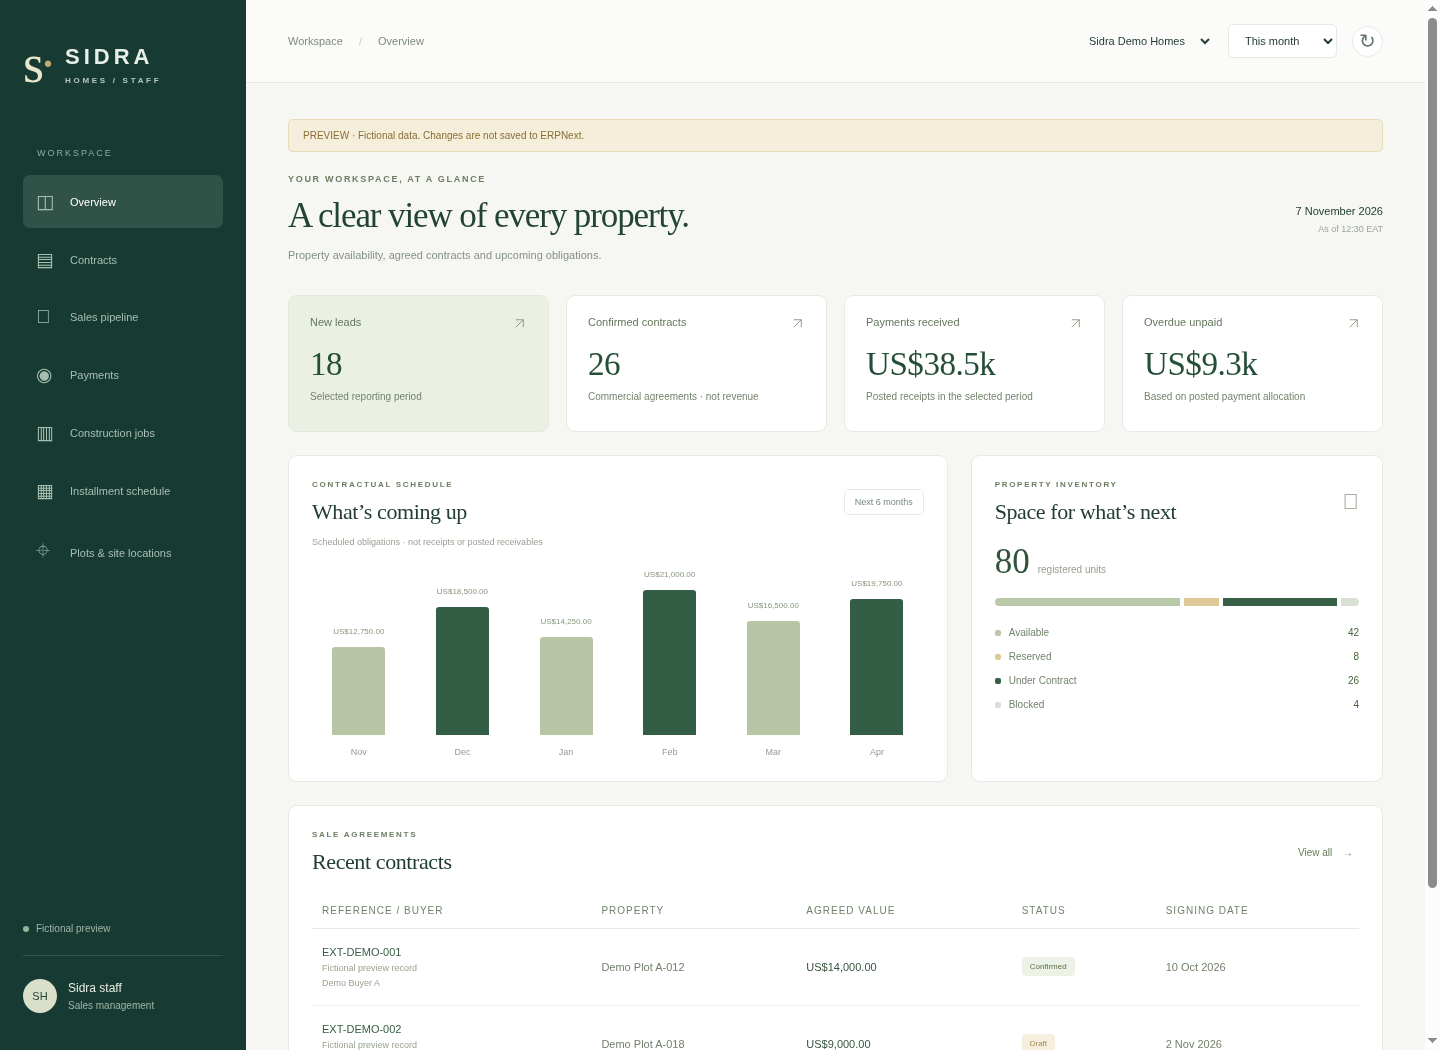
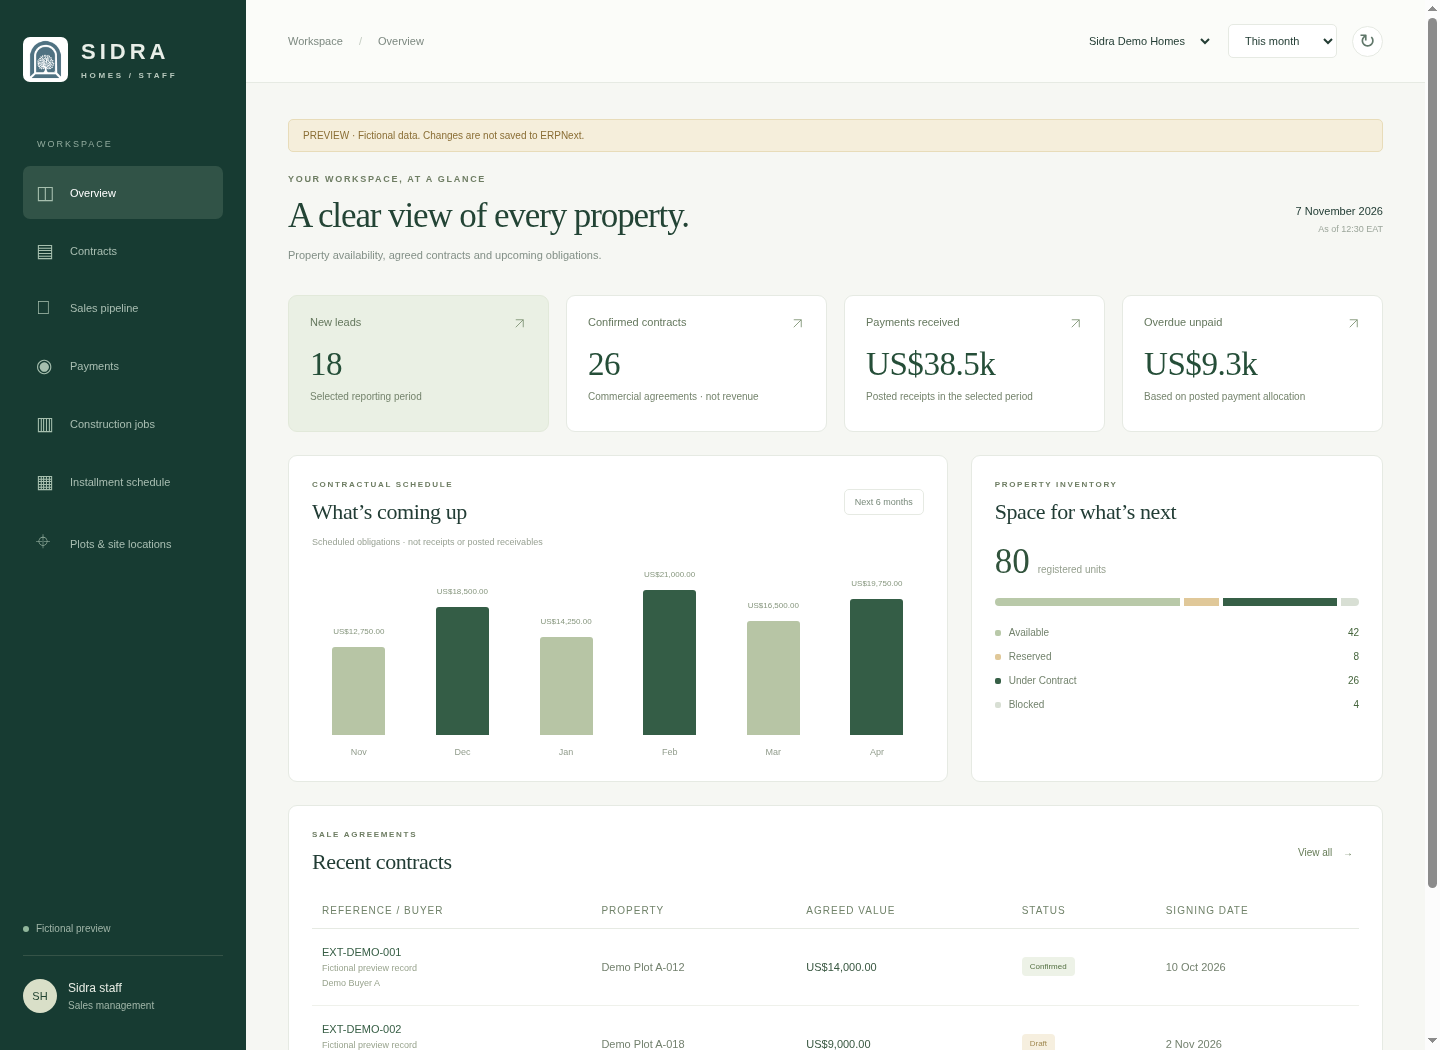
fix(staff): reuse official branding and isolate browser proxy settings

diff --git a/clients/staff/web/index.html b/clients/staff/web/index.html
@@ -1,9 +1,9 @@
 <!doctype html><html lang="en"><head><meta charset="utf-8"><meta name="viewport" content="width=device-width,initial-scale=1,viewport-fit=cover"><meta name="theme-color" content="#173b32"><title>Sidra Homes · Staff</title><link rel="stylesheet" href="./styles.css"></head><body>
-<aside class="sidebar"><a class="brand" href="./"><span class="monogram">s<span>·</span></span><span>SIDRA<span class="brand-sub">HOMES / STAFF</span></span></a><span class="nav-label">WORKSPACE</span><nav aria-label="Main navigation"><button class="nav active" data-view="overview"><span>◫</span> Overview</button><button class="nav" data-view="contracts"><span>▤</span> Contracts</button><button class="nav" data-view="sales"><span>↗</span> Sales pipeline</button><button class="nav" data-view="payments"><span>◉</span> Payments</button><button class="nav" data-view="jobs"><span>▥</span> Construction jobs</button><button class="nav" data-view="schedule"><span>▦</span> Installment schedule</button><button class="nav" data-view="locations"><span>⌖</span> Plots & site locations</button></nav><div class="sidebar-bottom"><span class="live-dot"></span><span id="connection">Connecting to server</span><div class="account"><span class="avatar">SH</span><div>Sidra staff<small id="role">Staff workspace</small></div></div></div></aside>
+<aside class="sidebar"><a class="brand" href="./"><img class="brand-icon" src="./sidra-icon.png" alt=""><span>SIDRA<span class="brand-sub">HOMES / STAFF</span></span></a><span class="nav-label">WORKSPACE</span><nav aria-label="Main navigation"><button class="nav active" data-view="overview"><span>◫</span> Overview</button><button class="nav" data-view="contracts"><span>▤</span> Contracts</button><button class="nav" data-view="sales"><span>↗</span> Sales pipeline</button><button class="nav" data-view="payments"><span>◉</span> Payments</button><button class="nav" data-view="jobs"><span>▥</span> Construction jobs</button><button class="nav" data-view="schedule"><span>▦</span> Installment schedule</button><button class="nav" data-view="locations"><span>⌖</span> Plots & site locations</button></nav><div class="sidebar-bottom"><span class="live-dot"></span><span id="connection">Connecting to server</span><div class="account"><span class="avatar">SH</span><div>Sidra staff<small id="role">Staff workspace</small></div></div></div></aside>
 <div class="workspace"><header class="topbar"><span id="breadcrumb">Workspace <span>/</span> Overview</span><div class="top-actions"><label class="company-label"><span class="sr-only">Company</span><select id="company" aria-label="Company"><option>Loading company…</option></select></label><label><span class="sr-only">Reporting period</span><select id="period" aria-label="Reporting period"><option value="this_month">This month</option><option value="last_30_days">Last 30 days</option><option value="last_90_days">Last 90 days</option></select></label><a id="signin" href="/login?redirect-to=%2Fsidra-staff%2F" class="text-button">Sign in</a><button id="signout" class="text-button" hidden>Sign out</button><button id="refresh" class="icon-button" aria-label="Refresh dashboard">↻</button></div></header><main>
 <div id="demo-banner" class="demo-banner" hidden>PREVIEW · Fictional data. Changes are not saved to ERPNext.</div><div id="alert" role="status" class="alert" hidden></div>
 <div class="page-heading"><div><p class="eyebrow" id="eyebrow">YOUR WORKSPACE, AT A GLANCE</p><h1 id="page-title">A clear view of every property.</h1><p class="subtitle" id="subtitle">Property availability, agreed contracts and upcoming obligations.</p></div><div class="date-block"><span id="today"></span><small id="updated">Awaiting server data</small></div></div>
-<section id="view-overview" class="view"><div class="metrics" id="metrics" aria-live="polite"></div><div class="dashboard-grid"><section class="panel schedule-panel"><div class="panel-heading"><div><p class="eyebrow">CONTRACTUAL SCHEDULE</p><h2>What’s coming up</h2></div><span class="tag">Next 6 months</span></div><p class="panel-note">Scheduled obligations · not receipts or posted receivables</p><div id="chart" class="bar-chart" aria-label="Scheduled obligations by month"></div></section><section class="panel availability-panel"><div class="panel-heading"><div><p class="eyebrow">PROPERTY INVENTORY</p><h2>Space for what’s next</h2></div><span class="small-arrow">↗</span></div><div id="availability"></div></section></div><section class="panel"><div class="panel-heading"><div><p class="eyebrow">SALE AGREEMENTS</p><h2>Recent contracts</h2></div><button class="text-button" data-view="contracts">View all <span>→</span></button></div><div id="recent-contracts" class="table-wrap"></div></section><div class="bottom-note"><span class="live-dot"></span> Data and permissions are controlled by your ERPNext server.<span>SIDRA HOMES</span></div></section>
+<section id="view-overview" class="view"><div class="metrics" id="metrics" aria-live="polite"></div><div class="dashboard-grid"><section class="panel schedule-panel"><div class="panel-heading"><div><p class="eyebrow">CONTRACTUAL SCHEDULE</p><h2>What’s coming up</h2></div><span class="tag">Next 6 months</span></div><p class="panel-note">Scheduled obligations · not receipts or posted receivables</p><div id="chart" class="bar-chart" aria-label="Scheduled obligations by month"></div></section><section class="panel availability-panel"><div class="panel-heading"><div><p class="eyebrow">PROPERTY INVENTORY</p><h2>Space for what’s next</h2></div></div><div id="availability"></div></section></div><section class="panel"><div class="panel-heading"><div><p class="eyebrow">SALE AGREEMENTS</p><h2>Recent contracts</h2></div><button class="text-button" data-view="contracts">View all <span>→</span></button></div><div id="recent-contracts" class="table-wrap"></div></section><div class="bottom-note"><span class="live-dot"></span> Data and permissions are controlled by your ERPNext server.<span>SIDRA HOMES</span></div></section>
 <section id="view-sales" class="view" hidden><div id="sales-metrics" class="metrics"></div><section class="panel"><div class="panel-heading"><h2>Sales pipeline</h2></div><div id="pipeline" class="pipeline"></div><p class="panel-note footer-note">Lead and opportunity counts are linked and calculated by the server.</p></section></section><section id="view-payments" class="view" hidden><div id="payment-metrics" class="metrics"></div><section class="panel"><div class="panel-heading"><h2>Overdue payment aging</h2></div><div id="aging" class="pipeline"></div><p class="panel-note footer-note">Posted payments and allocation determine what is unpaid. The installment schedule alone cannot establish arrears.</p></section></section><section id="view-jobs" class="view" hidden><div id="job-metrics" class="metrics"></div><section class="panel"><div class="panel-heading"><h2>Construction jobs</h2></div><div id="jobs-table" class="table-wrap"></div></section></section><section id="view-contracts" class="view" hidden><div class="panel"><div class="panel-heading"><h2>Contract register</h2><input id="contract-search" type="search" placeholder="Search reference, buyer or unit" aria-label="Search contracts"></div><div id="contracts-table" class="table-wrap"></div><p class="panel-note footer-note">Registration, original attachments and agreed terms open in the server portal.</p></div></section>
 <section id="view-schedule" class="view" hidden><div class="panel"><div class="panel-heading"><div><p class="eyebrow">AGREED DATES & AMOUNTS</p><h2>Upcoming installments</h2></div><span class="tag">Server schedule</span></div><p class="panel-note">These are contractual obligations. Payment allocation and paid balances are handled by Finance on the server.</p><div id="upcoming" class="table-wrap"></div></div></section>
 <section id="view-locations" class="view" hidden><div class="location-layout"><section class="panel location-list"><div class="panel-heading"><div><p class="eyebrow">PLOTS & CONSTRUCTION SITES</p><h2>Every place, connected.</h2></div></div><div class="filter-row"><input id="location-search" type="search" placeholder="Find a plot or site" aria-label="Search locations"><select id="location-kind" aria-label="Location type"><option value="">All locations</option><option>Sidra Unit</option><option>Sidra Construction Job</option></select></div><div id="locations"></div></section><section class="panel location-detail" id="location-detail"><div class="empty">Select a plot or construction site to view its saved location.</div></section></div></section>

diff --git a/clients/staff/web/styles.css b/clients/staff/web/styles.css
@@ -3,3 +3,5 @@
 
 @media(max-width:720px){.topbar{height:auto;min-height:65px;gap:7px;flex-wrap:wrap;padding-top:9px;padding-bottom:9px}.top-actions{flex-wrap:wrap;gap:5px}.top-actions #period{font-size:9px;max-width:110px;padding:6px}.topbar #breadcrumb{font-size:10px}.company-label select{max-width:135px}}
 .metric-label{font-size:11px;color:#65785e}.metric-sub{font-size:10px;color:#75846d}th{font-size:10px;color:#71836a}.eyebrow{color:#6e7d63}.metric-label svg{color:#7e9273;flex-shrink:0}.metric-value{font-size:clamp(24px,2.3vw,34px)}.metric-unavailable{font-size:14px}
+
+.brand-icon{width:45px;height:45px;object-fit:contain;background:white;border-radius:7px;padding:3px}@media(max-width:720px){.brand-icon{width:35px;height:35px}}

diff --git a/clients/staff/docs/CLAUDE-HANDOVER.md b/clients/staff/docs/CLAUDE-HANDOVER.md
@@ -2,14 +2,14 @@
 
 User allocation: Claude codes the backend/test server; Codex codes the Android/macOS staff clients and shared web dashboards. Staff only. Server URL: not ready.
 
-The shared UI is plain HTML/CSS/ES modules, approximately 44 KB before compression. No framework/runtime is bundled. The Android Java shell uses the system WebView; the macOS Swift shell uses the system WKWebView. The main application stays on your server at `/sidra-staff/`.
+The shared UI is plain HTML/CSS/ES modules, approximately 44 KB text before compression, plus the reused official 43 KB icon. No framework/runtime is bundled. The Android Java shell uses the system WebView; the macOS Swift shell uses the system WKWebView. The main application stays on your server at `/sidra-staff/`.
 
 Please review `API-CONTRACT.md`, implement/reuse the permission-filtered dashboard aggregate endpoint, and serve the UI under the same origin with session CSRF injection. Payments must derive from posted ERPNext payments/allocation; leave the section unavailable until Finance data is real. Job KPIs must derive from existing jobs/milestones/inspections. Sales value is not revenue.
 
 The user separately requested Google Maps/Earth locations in web and both apps. `integration/frappe/sidra_realestate/api/locations.py` and `location_geometry.py` provide the scoped adapter. Review/integrate it without duplicating any location fields you may have added. Use native Geolocation Custom Fields, preserve existing GPS text, check parent read/write/Company permissions, refuse stale edits, and export Point KML. Google external links need no key; an embedded basemap needs a restricted Maps Embed browser key.
 
-Verified here: Node source/contract checks, 12 Python geometry/adapter boundary tests (stubbed Frappe, not integration tests), desktop and phone Chromium smoke tests, explicit demo-only behavior, invalid coordinate refusal and no silent demo fallback on live failure. Browser screenshots are in `screenshots/`.
+Verified here: macOS CI release compilation/ad-hoc package (run 42374811237), Node source/contract checks, 12 Python geometry/adapter boundary tests (stubbed Frappe, not integration tests), desktop and phone Chromium smoke tests, explicit demo-only behavior, invalid coordinate refusal and no silent demo fallback on live failure. Browser screenshots are in `screenshots/`.
 
-Not verified: live Frappe/API/session/Company integration, GPS on actual devices, Android SDK build, macOS build/signing/notarization, exact installed app size. The current Linux environment has no Android SDK/Gradle or macOS toolchain and very little free disk. CI definitions are included to build on the appropriate runners. No test-server endpoint has been invented, no existing backend files were edited, and no data was posted to the ERP.
+Not verified: live Frappe/API/session/Company integration, GPS on actual devices, Android SDK build, distribution signing/notarization, exact installed app size. The current Linux environment has no Android SDK/Gradle or macOS toolchain and very little free disk. CI definitions are included to build on the appropriate runners. No test-server endpoint has been invented, no existing backend files were edited, and no data was posted to the ERP.
 
 Next: agree the aggregate endpoint/cohort definitions; install and test the location adapter on your test server; provide HTTPS URL; run the platform builds and test login/logout, CSRF, uploads, protected downloads, expired sessions, map links and GPS. Review the source before any production release.
